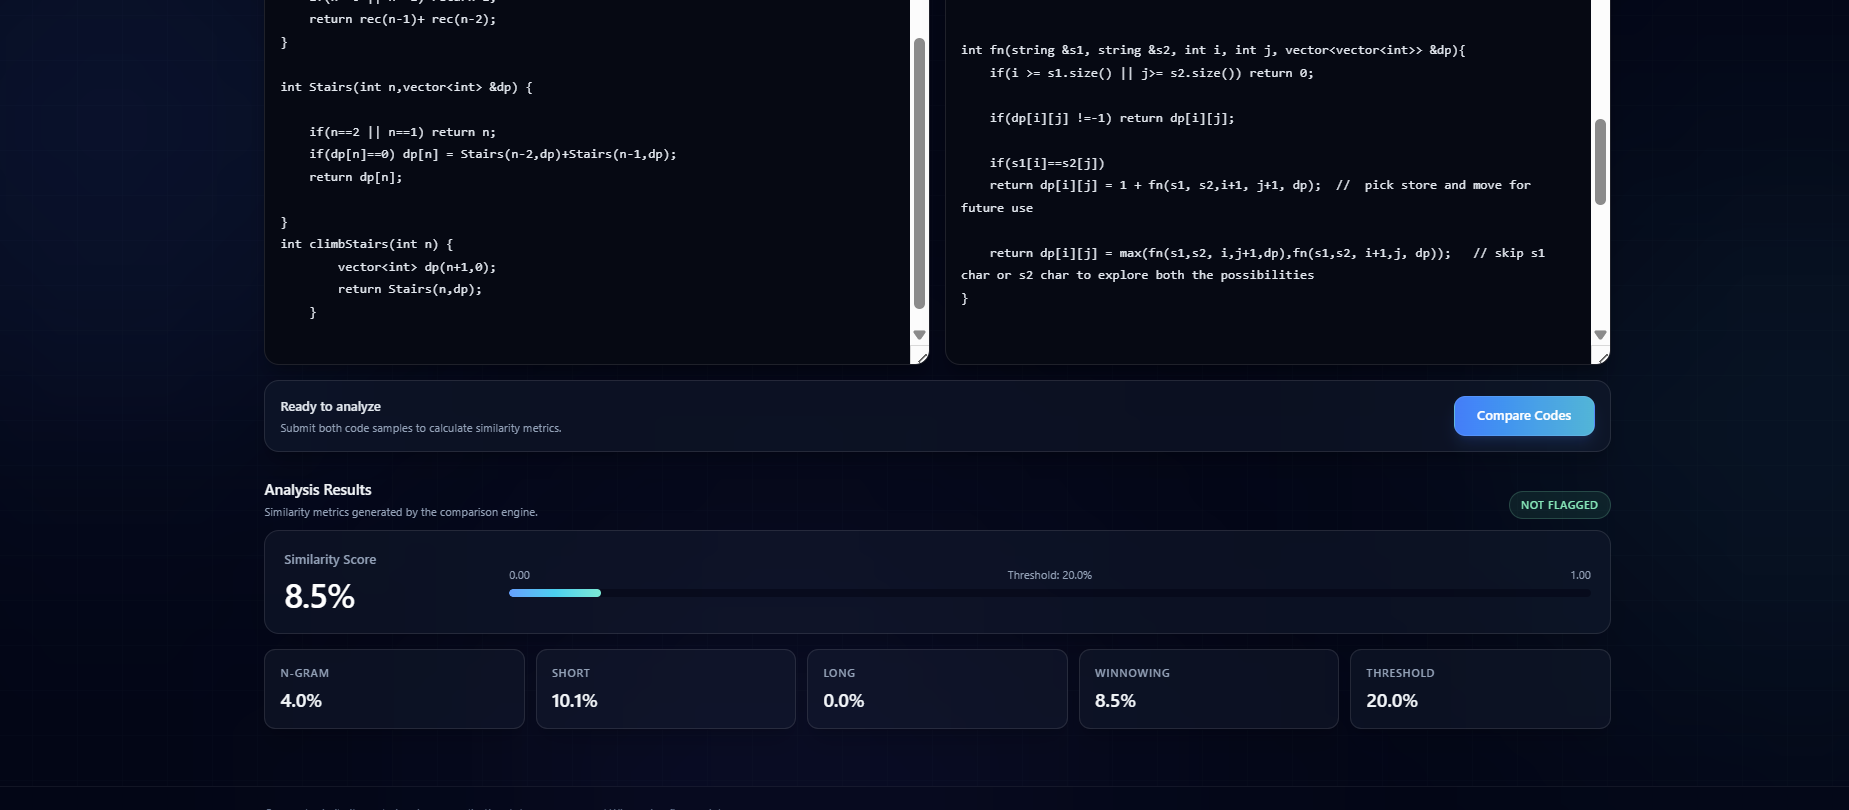
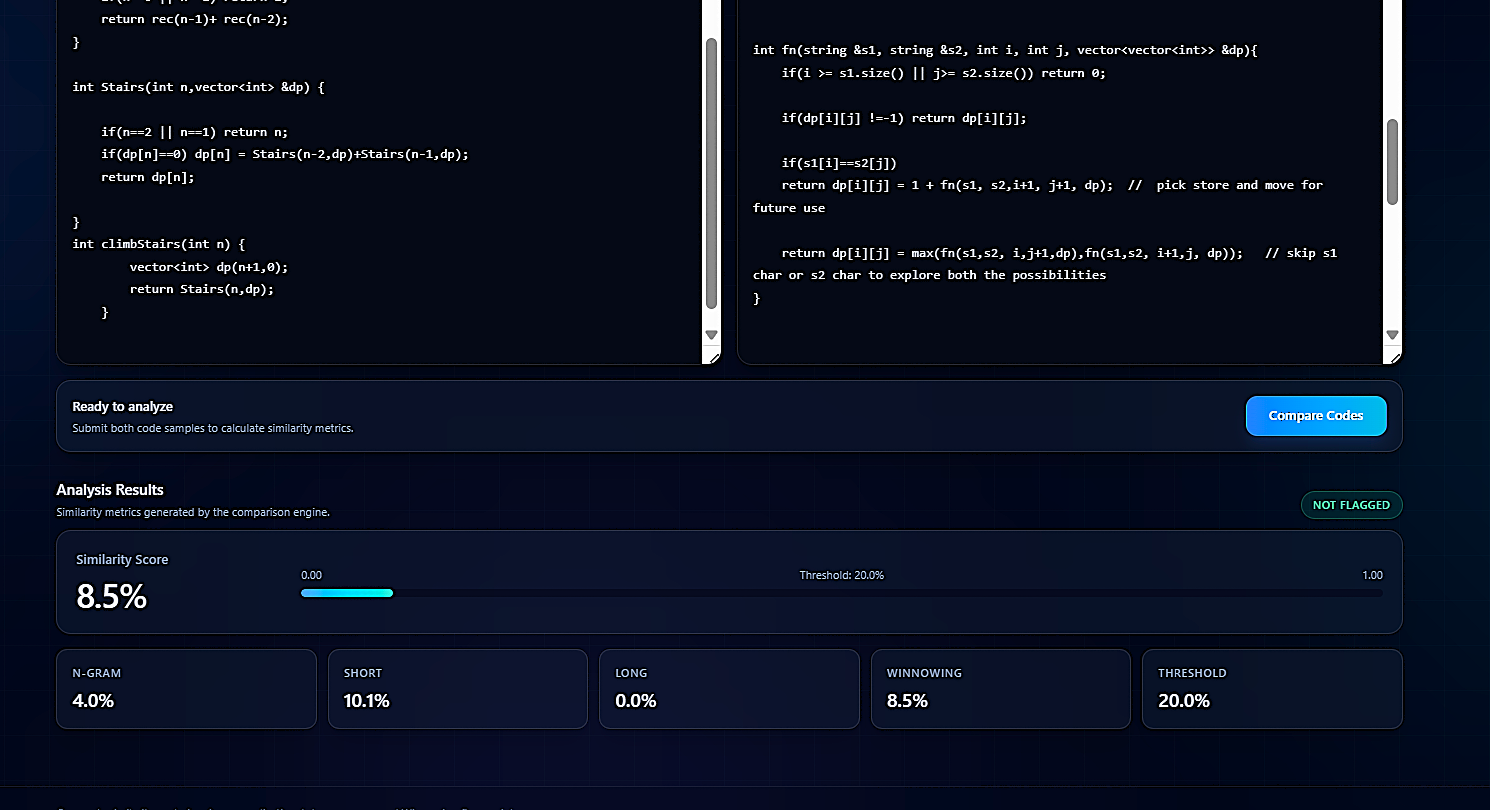
ProjectImageShowup

diff --git a/src/components/featured/FeaturedProject.jsx b/src/components/featured/FeaturedProject.jsx
@@ -1,7 +1,11 @@
+import { useState } from "react";
 import { motion } from "framer-motion";
 import { projects } from "../../data/projects";
 
 export default function FeaturedProject() {
+
+  const [selectedImage, setSelectedImage] = useState(null);
+
   return (
     <section id="projects" className="section">
       {projects.map((project, projectIndex) => (
@@ -30,7 +34,7 @@ export default function FeaturedProject() {
             </p>
           </motion.div>
 
-          {/* Screenshots */}
+          {/* SS */}
           <div
             className={`
               grid grid-cols-1 gap-4 md:gap-5
@@ -44,22 +48,14 @@ export default function FeaturedProject() {
             {project.screenshots.map((screenshot, index) => (
               <motion.div
                 key={`${project.id}-${index}`}
-                whileHover={{
-                  scale: 1.02,
-                  y: -10,
-                }}
+                whileHover={{ scale: 1.02, y: -10 }}
                 transition={{
                   type: "spring",
                   stiffness: 450,
                   damping: 18,
                 }}
-                className="
-                  glass
-                  rounded-xl
-                  md:rounded-2xl
-                  overflow-hidden
-                  hover:border-violet-500/50
-                "
+                className=" glass rounded-xl md:rounded-2xl overflow-hidden hover:border-violet-500/50 cursor-zoom-in "
+                onClick={() => setSelectedImage(screenshot)}
               >
                 <img
                   src={screenshot.src}
@@ -84,16 +80,7 @@ export default function FeaturedProject() {
 
           {/* Features */}
           <div
-            className="
-              grid
-              grid-cols-2
-              sm:grid-cols-3
-              md:grid-cols-4
-              lg:grid-cols-8
-              gap-3
-              md:gap-4
-            "
-          >
+            className=" grid grid-cols-2 sm:grid-cols-3 md:grid-cols-4 lg:grid-cols-8 gap-3 md:gap-4">
             {project.features.map((feature) => (
               <motion.div
                 key={`${project.id}-${feature}`}
@@ -106,21 +93,7 @@ export default function FeaturedProject() {
                   stiffness: 450,
                   damping: 18,
                 }}
-                className="
-                  glass
-                  glow-pill
-                  rounded-xl
-                  md:rounded-2xl
-                  p-3
-                  md:p-4
-                  text-center
-                  text-xs
-                  sm:text-sm
-                  cursor-pointer
-                  transition-all
-                  duration-200
-                "
-              >
+                className=" glass glow-pill rounded-xl md:rounded-2xl p-3 md:p-4 text-center text-xs sm:text-sm cursor-pointer transition-all duration-200 ">
                 {feature}
               </motion.div>
             ))}
@@ -134,17 +107,7 @@ export default function FeaturedProject() {
               href={project.liveUrl}
               target="_blank"
               rel="noopener noreferrer"
-              className="
-                px-8
-                py-4
-                rounded-2xl
-                bg-gradient-to-r
-                from-violet-600
-                to-cyan-500
-                font-medium
-                text-center
-              "
-            >
+              className=" px-8 py-4 rounded-2xl bg-gradient-to-r from-violet-600 to-cyan-500 font-medium text-center" >
               Live Demo
             </motion.a>
 
@@ -154,22 +117,24 @@ export default function FeaturedProject() {
               href={project.githubUrl}
               target="_blank"
               rel="noopener noreferrer"
-              className="
-                px-8
-                py-4
-                rounded-2xl
-                border
-                border-zinc-700
-                hover:border-violet-500
-                transition-all
-                text-center
-              "
-            >
+              className=" px-8 py-4 rounded-2xl border border-zinc-700 hover:border-violet-500 transition-all text-center">
               GitHub
             </motion.a>
           </div>
         </div>
       ))}
+      {selectedImage && (
+        <div
+          className="fixed inset-0 z-50 bg-black/90 flex items-center justify-center p-6"
+          onClick={() => setSelectedImage(null)}
+        >
+          <img
+            src={selectedImage.src}
+            alt={selectedImage.alt}
+            onClick={(e) => e.stopPropagation()}
+            className=" max-w-full max-h-[90vh] w-auto h-auto rounded-xl object-contain"/>
+        </div>
+      )}
     </section>
   );
 }

diff --git a/src/components/dsa/cards/HighlightsCard.jsx b/src/components/dsa/cards/HighlightsCard.jsx
@@ -84,7 +84,11 @@ export default function HighlightsCard({ stats }) {
       <div className="pt-3 border-t border-zinc-700">
         <p className="text-xs text-zinc-500">
           Last Updated{" "}
-          {new Date(stats.lastUpdated).toLocaleDateString()}
+          {new Date(stats.lastUpdated).toLocaleDateString("en-GB", {
+            day: "numeric",
+            month: "long",
+            year: "numeric",
+          })}
         </p>
       </div>
     </motion.div>

diff --git a/src/main.jsx b/src/main.jsx
@@ -1,17 +1,10 @@
 import React from "react";
-console.log(
-    "MAIN.JSX EXECUTED",
-    performance.now(),
-    new Date().toLocaleTimeString()
-);
 import ReactDOM from "react-dom/client";
 import App from "./App";
 import "./index.css";
 
 import { ThemeProvider } from "./context/ThemeContext";
-
 ReactDOM.createRoot(document.getElementById("root")).render(
-
     <ThemeProvider>
       <App />
     </ThemeProvider>

diff --git a/src/App.jsx b/src/App.jsx
@@ -103,7 +103,6 @@ export default function App() {
           </p>
         </section>
        )}
-
       <TechMarquee />
       <Contact />
       <Footer />
